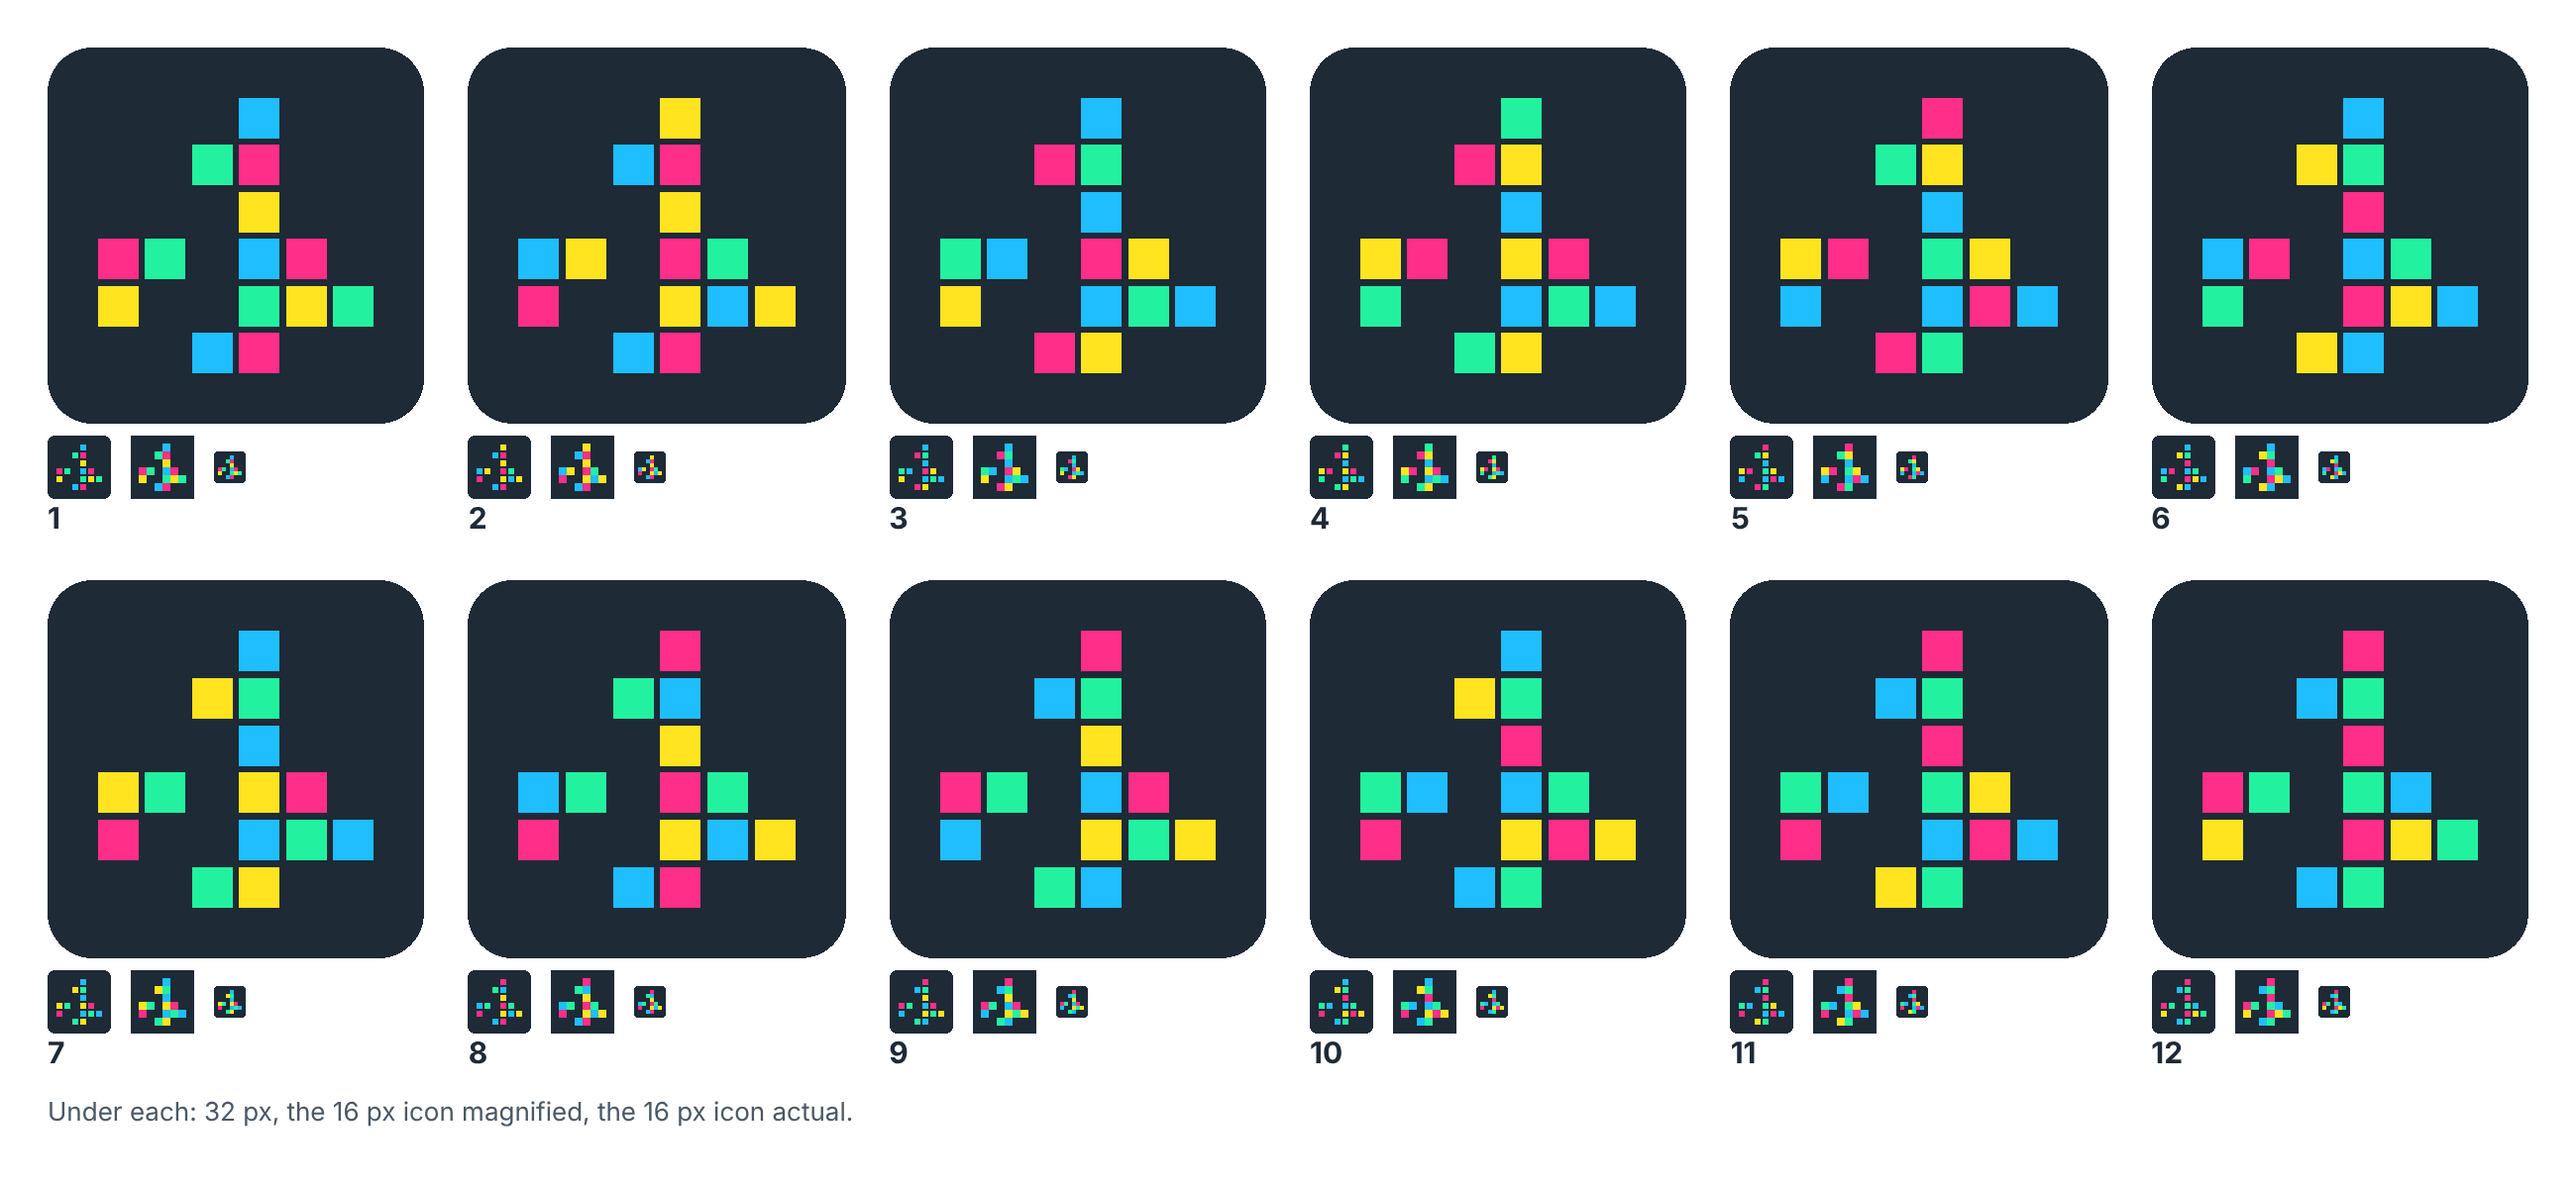
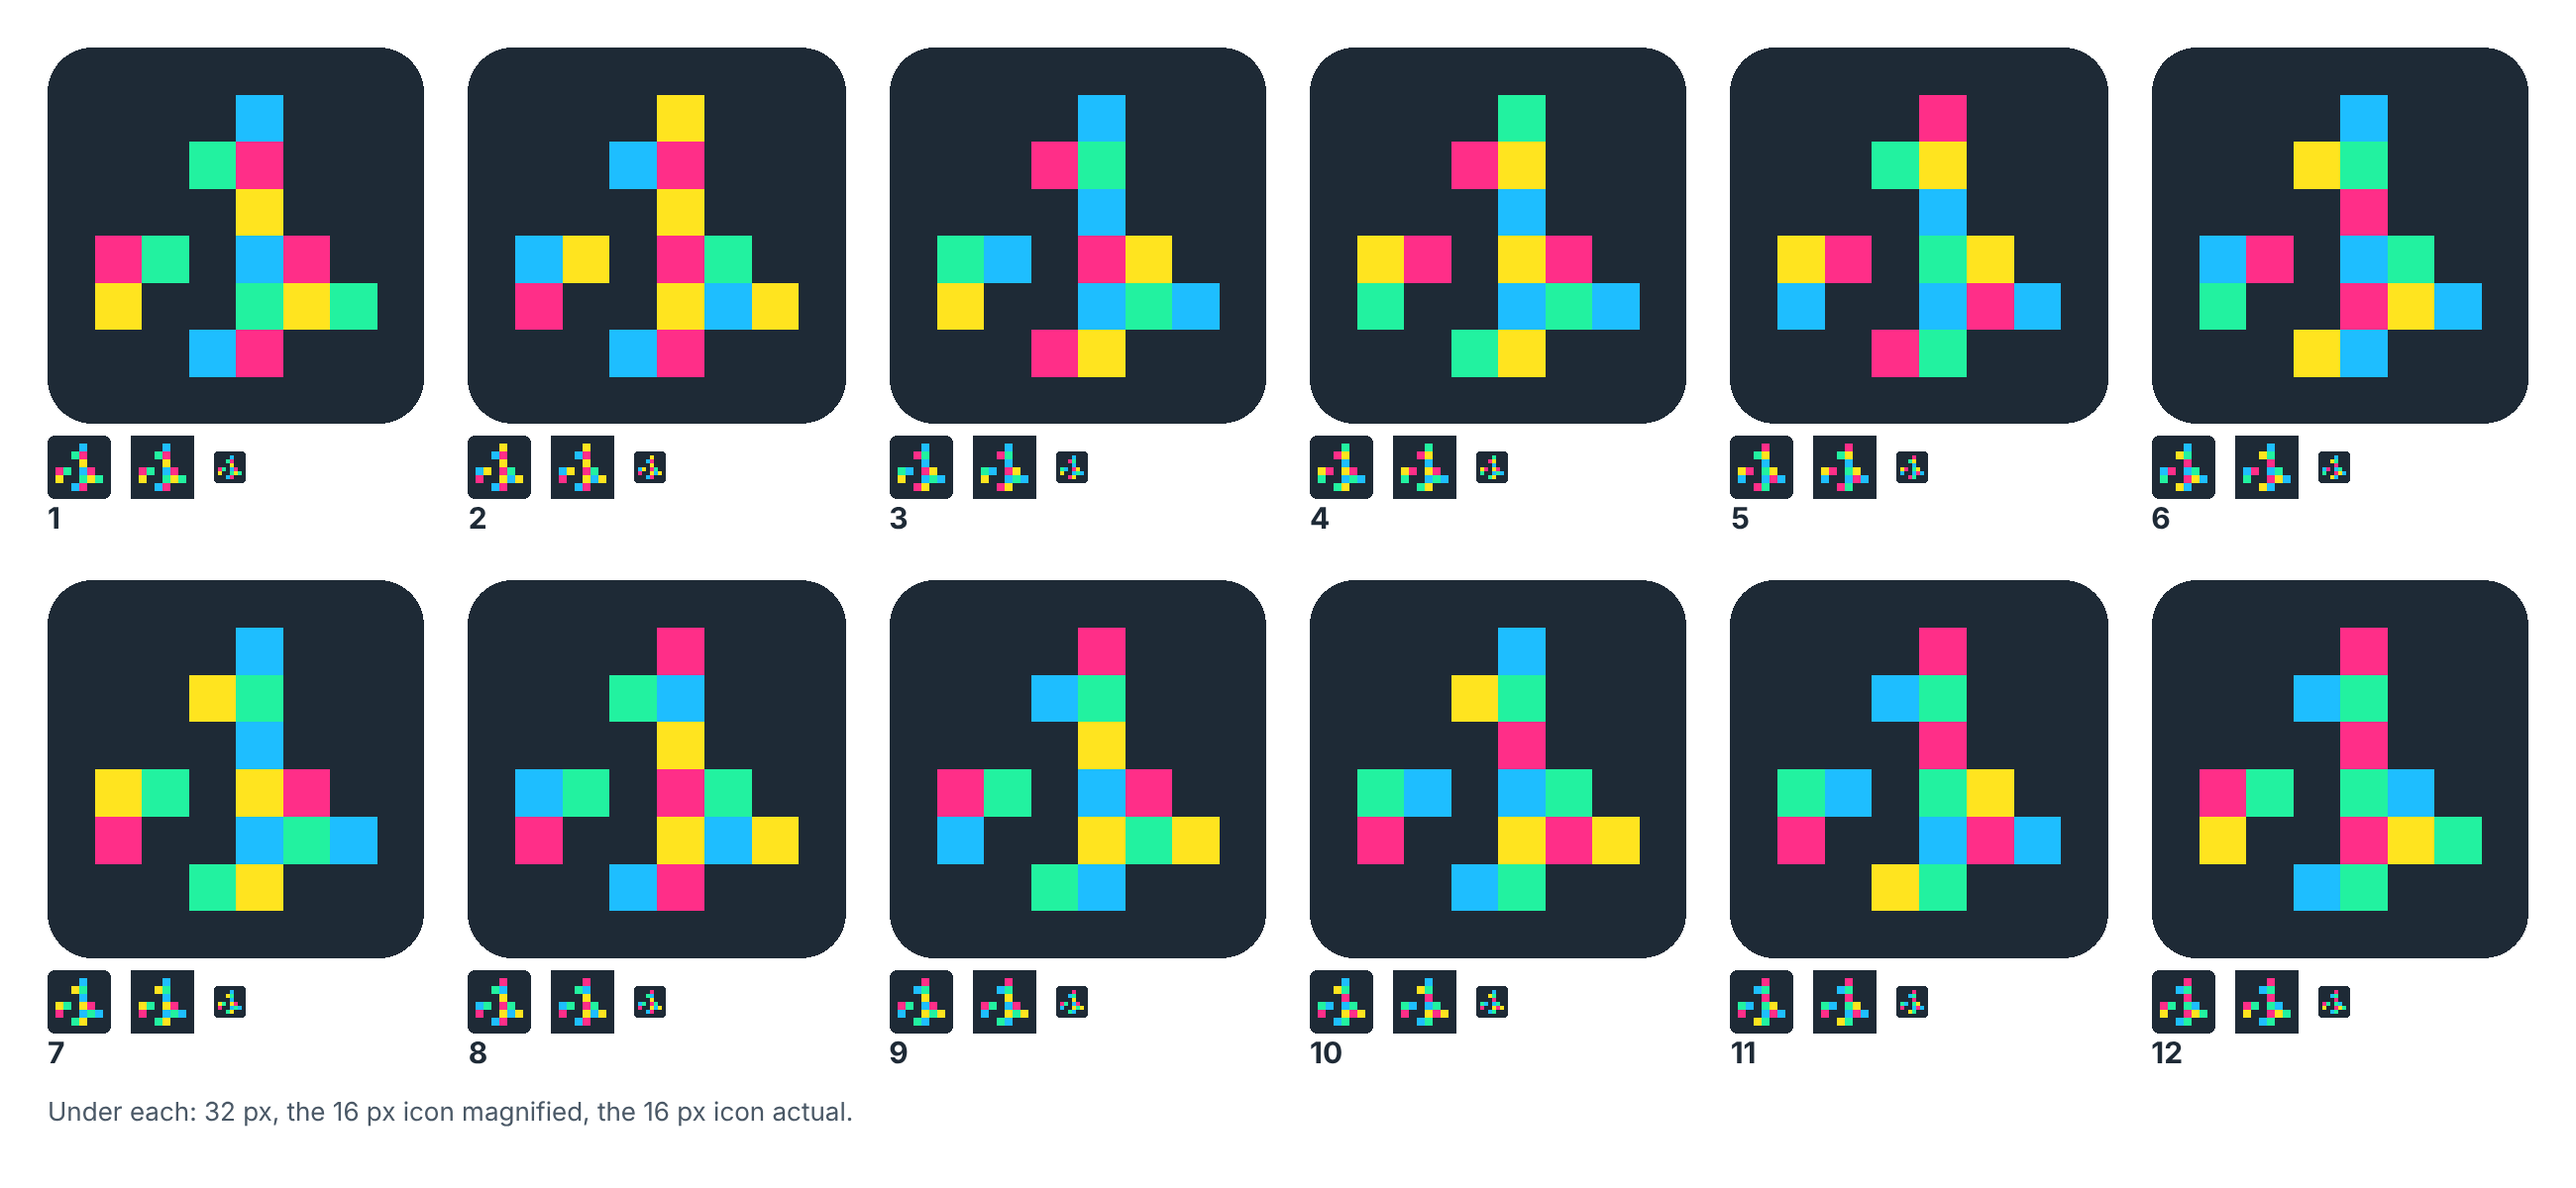
Design drafts: I7 and its shuffles without gaps between the squares (Ed, in session)
Claude-Session: https://claude.ai/code/session_018uvzSPoLJKUx3o3mPuMkSG

diff --git a/design/tools/i7_shuffles.py b/design/tools/i7_shuffles.py
@@ -18,7 +18,7 @@ if __name__ == "__main__":
         if key in seen: continue
         seen.add(key); found.append(seed)
     for i, sd in enumerate(found, 1):
-        full, _ = svg(g, 1, 8, 0.14, 1, sd, f"I7 colour shuffle {i} (seed {sd})", colours=NEON)
+        full, _ = svg(g, 1, 8, 0, 1, sd, f"I7 colour shuffle {i} (seed {sd})", colours=NEON)
         small, _ = svg(g, 2, 16, 0, 1, sd, f"I7 colour shuffle {i} (seed {sd}), small", colours=NEON)
         (OUT / f"i7-shuffle-{i:02d}.svg").write_text(full)
         (OUT / f"i7-shuffle-{i:02d}-small.svg").write_text(small)

diff --git a/design/tools/i7.py b/design/tools/i7.py
@@ -20,7 +20,7 @@ SHAPE = """
 
 if __name__ == "__main__":
     g = parse(SHAPE)
-    full, n = svg(g, 1, 8, 0.14, 1, 5, "minimal pixel UK, neon, on a dark tile", colours=NEON)
+    full, n = svg(g, 1, 8, 0, 1, 5, "minimal pixel UK, neon, on a dark tile", colours=NEON)
     small, _ = svg(g, 2, 16, 0, 1, 5, "minimal pixel UK, neon, on a dark tile, small", colours=NEON)
     (OUT / "i7-pixel-minimal.svg").write_text(full)
     (OUT / "i7-pixel-minimal-small.svg").write_text(small)
